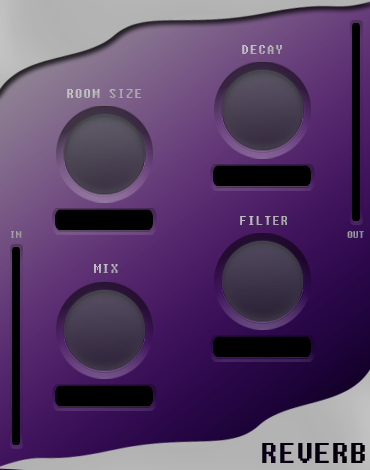
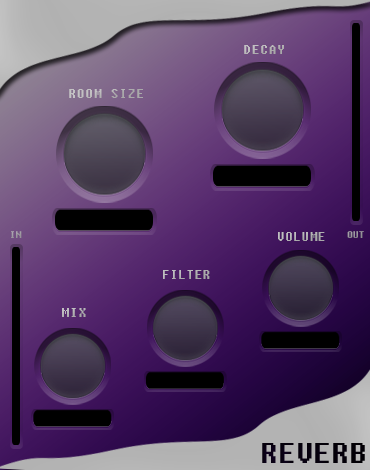
Reverb algorithm improvements
Reverb plugin gui changes

Changed region(s): [[0.0892, 0.4468, 0.9216, 0.9234], [0.1784, 0.1787, 0.3865, 0.2085], [0.6541, 0.0894, 0.773, 0.1191]]

diff --git a/plugins/Reverb/PluginEditor.cpp b/plugins/Reverb/PluginEditor.cpp
@@ -53,12 +53,26 @@ ReverbPluginAudioProcessorEditor::ReverbPluginAudioProcessorEditor (ReverbPlugin
     filterSliderAtt = std::make_unique<juce::AudioProcessorValueTreeState::
         SliderAttachment>(audioProcessor.apvts, "FILTER_ID", *filterSlider);
 
+    levelSlider.reset(new juce::Slider("LevelSlider"));
+    levelSlider->setSliderStyle(juce::Slider::SliderStyle::RotaryHorizontalVerticalDrag);
+    levelSlider->setTextBoxStyle(juce::Slider::TextBoxBelow, false, 80, 20);
+    levelSlider->setTextValueSuffix(" dB");
+    addAndMakeVisible(levelSlider.get());
+    levelSlider->setLookAndFeel(&graphics);
+
+    filterSliderAtt = std::make_unique<juce::AudioProcessorValueTreeState::
+        SliderAttachment>(audioProcessor.apvts, "LEVEL_ID", *levelSlider);
+
 
     int knobSize = 133;
+    int knobSizeSmall = 111;
+
     roomSizeSlider->setBounds(40, 107, knobSize, knobSize);
     decaySlider->setBounds(198, 63, knobSize, knobSize);
-    mixSlider->setBounds(40, 283, knobSize, knobSize);
-    filterSlider->setBounds(198, 234, knobSize, knobSize);
+    
+    mixSlider->setBounds(19, 328, knobSizeSmall, knobSizeSmall);
+    filterSlider->setBounds(132, 291, knobSizeSmall, knobSizeSmall);
+    levelSlider->setBounds(247, 250, knobSizeSmall, knobSizeSmall);
    
 }
 
@@ -68,6 +82,7 @@ ReverbPluginAudioProcessorEditor::~ReverbPluginAudioProcessorEditor()
     decaySliderAtt = nullptr;
     mixSliderAtt = nullptr;
     filterSliderAtt = nullptr;
+    levelSliderAtt = nullptr;
 }
 
 //==============================================================================

diff --git a/src/Reverb.cpp b/src/Reverb.cpp
@@ -25,6 +25,8 @@ void Reverb<SampleType>::prepare(SampleType sampleRate)
         combFilters[comb].setWidth(8);
         combFilters[comb].setRate(combModRates[comb]);
         combFilters[comb].setDepth(1.0);
+
+        valueSmoothers[comb].prepare(450.0, sampleRate);
     }
 
     for(int allpass = 0; allpass < NUM_ALLPASS; ++allpass)
@@ -50,7 +52,10 @@ SampleType Reverb<SampleType>::processSample(SampleType input)
 
     // Comb Filters
     for(int comb = 0; comb < NUM_COMBS; ++comb)
+    {
+        combFilters[comb].setDelayMs(valueSmoothers[comb].process(roomSize) * combDelayTimeValues[comb]);
         combOutput += combFilters[comb].processSample(input);
+    }
 
     combOutput = combOutput / NUM_COMBS;
 
@@ -74,10 +79,7 @@ void Reverb<SampleType>::process(SampleType* data, int startSample, int endSampl
 template <typename SampleType>
 void Reverb<SampleType>::setRoomSize(SampleType newRoomSize)
 {
-    this->roomSize = newRoomSize;
-
-    for(int comb = 0; comb < NUM_COMBS; ++comb)
-        combFilters[comb].setDelayMs(roomSize * combDelayTimeValues[comb]);
+    this->roomSize = newRoomSize;        
 }
 
 template <typename SampleType>

diff --git a/plugins/Reverb/PluginProcessor.cpp b/plugins/Reverb/PluginProcessor.cpp
@@ -141,6 +141,7 @@ void ReverbPluginAudioProcessor::processBlock (juce::AudioBuffer<float>& buffer,
     auto* channelDataRight = buffer.getWritePointer (1);
 
     reverb.process(channelDataLeft, 0, buffer.getNumSamples());
+    buffer.applyGain(GainUtilities<float>::decibelsToGain(*apvts.getRawParameterValue("LEVEL_ID")));
 
     meterSource.updateOutputLevel(buffer);
 
@@ -164,6 +165,7 @@ juce::AudioProcessorValueTreeState::ParameterLayout ReverbPluginAudioProcessor::
   parameters.push_back(std::make_unique<juce::AudioParameterFloat>("DECAY_ID", "DECAY", 0.0f, 100.0, 50.0));
   parameters.push_back(std::make_unique<juce::AudioParameterFloat>("FILTER_ID", "FILTER", 500.0, 20000.0, 20000.0));
   parameters.push_back(std::make_unique<juce::AudioParameterFloat>("MIX_ID", "MIX", 0.0f, 100.0, 40.0));
+  parameters.push_back(std::make_unique<juce::AudioParameterFloat>("LEVEL_ID", "LEVEL", -12.0f, 12.0, 0.0));
 
 
   return { parameters.begin(), parameters.end() };

diff --git a/plugins/Reverb/PluginEditor.h b/plugins/Reverb/PluginEditor.h
@@ -20,8 +20,8 @@ public:
     void setMeters();
 
 private:
-    std::unique_ptr<juce::Slider> roomSizeSlider, decaySlider, mixSlider, filterSlider;
-    std::unique_ptr<juce::AudioProcessorValueTreeState::SliderAttachment> roomSizeSliderAtt, decaySliderAtt, mixSliderAtt, filterSliderAtt;
+    std::unique_ptr<juce::Slider> roomSizeSlider, decaySlider, mixSlider, filterSlider, levelSlider;
+    std::unique_ptr<juce::AudioProcessorValueTreeState::SliderAttachment> roomSizeSliderAtt, decaySliderAtt, mixSliderAtt, filterSliderAtt, levelSliderAtt;
 
     juce::Label lengthLabel, feedbackLabel, wetLabel, dryLabel, filterLabel;
 

diff --git a/src/Reverb.h b/src/Reverb.h
@@ -4,6 +4,7 @@
 #include <utils/ModulatedAllPassFilter.h>
 #include <utils/LFO.h>
 #include <IIRFilter.h>
+#include <utils/extras/FirstOrderSmoother.h>
 
 #define NUM_COMBS 4
 #define NUM_ALLPASS 2
@@ -55,6 +56,8 @@ private:
 	SampleType allPassDelayTimeValues[NUM_ALLPASS] {5.0, 1.7}; // AllPass Delay times in ms
 	SampleType allPassFeedbackValues[NUM_ALLPASS] {0.7, 0.7};
 	SampleType allPassModRates[NUM_ALLPASS] {0.6, 0.83};
+
+	FirstOrderSmoother valueSmoothers[NUM_COMBS];
 
 	IIRFilter<SampleType> filter;
 

diff --git a/plugins/Reverb/PluginProcessor.h b/plugins/Reverb/PluginProcessor.h
@@ -3,6 +3,7 @@
 #include <juce_audio_processors/juce_audio_processors.h>
 #include <utils/extras/AudioChannelUtilities.h>
 #include <utils/custom_juce_classes/LevelMeterSource.h>
+#include <utils/extras/GainUtilities.h>
 #include <Reverb.h>
 
 //==============================================================================
